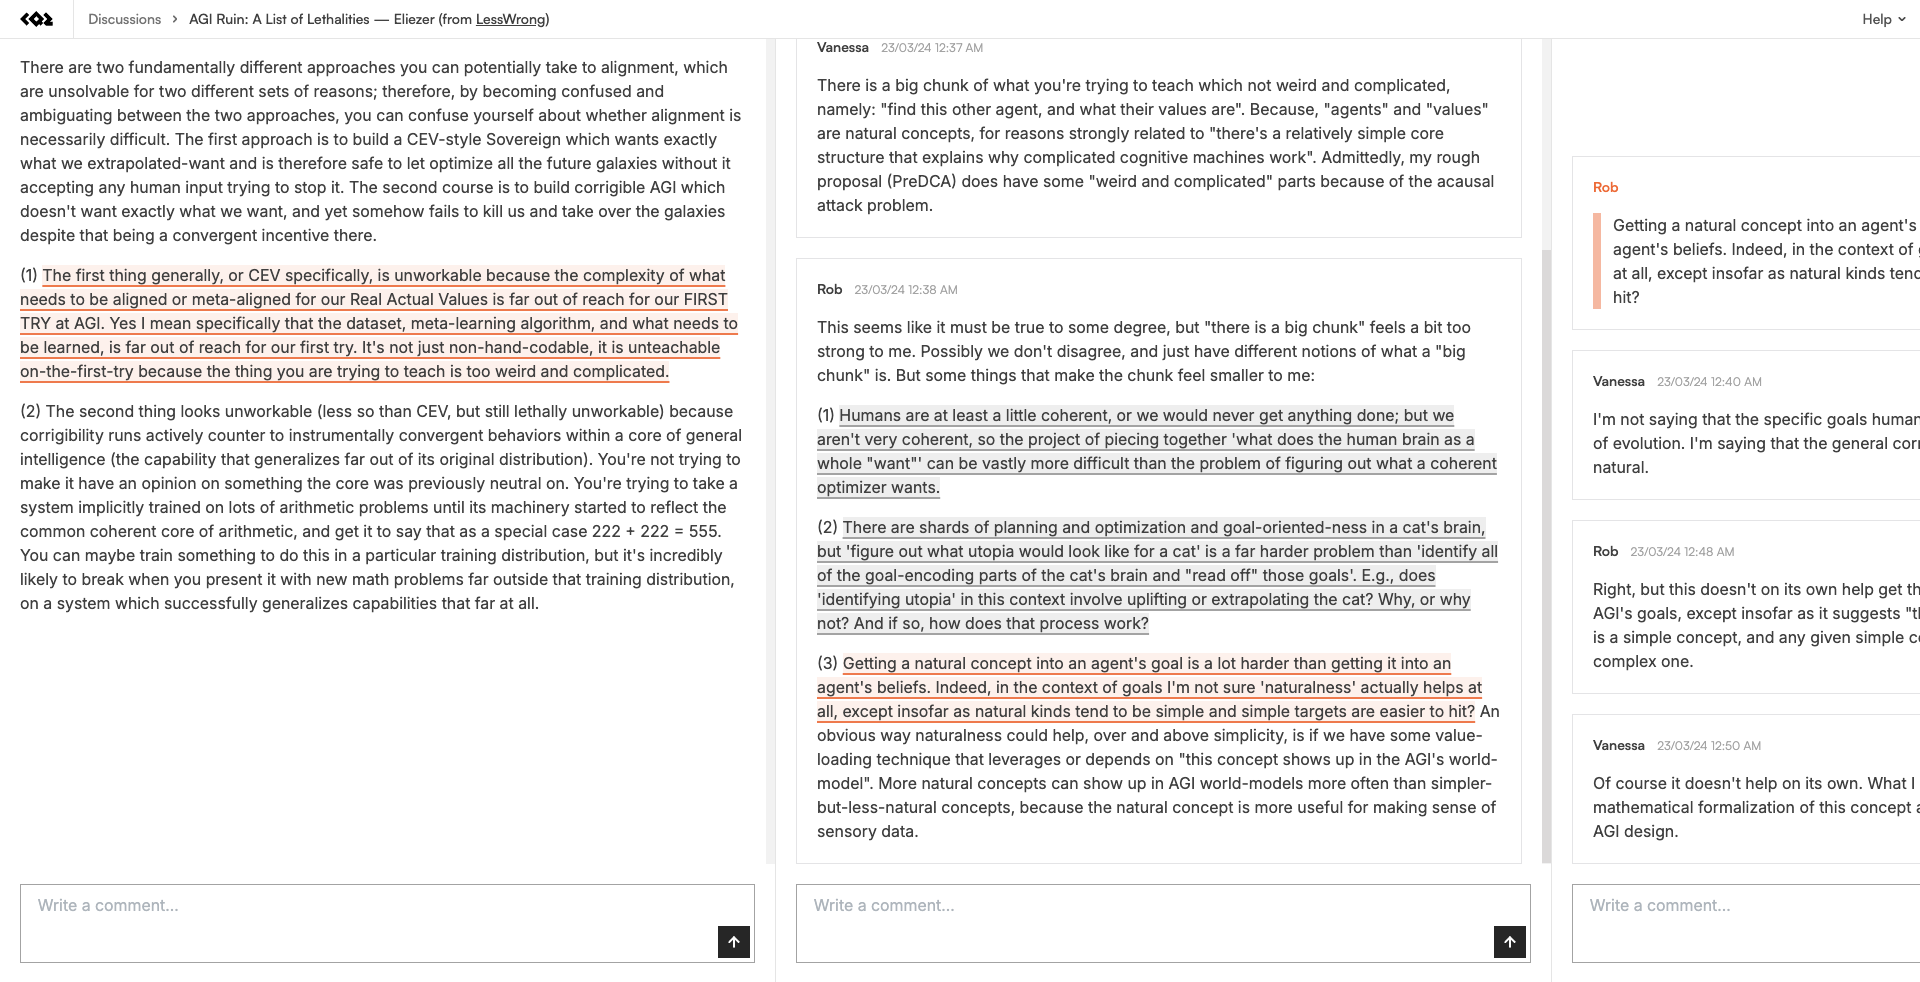
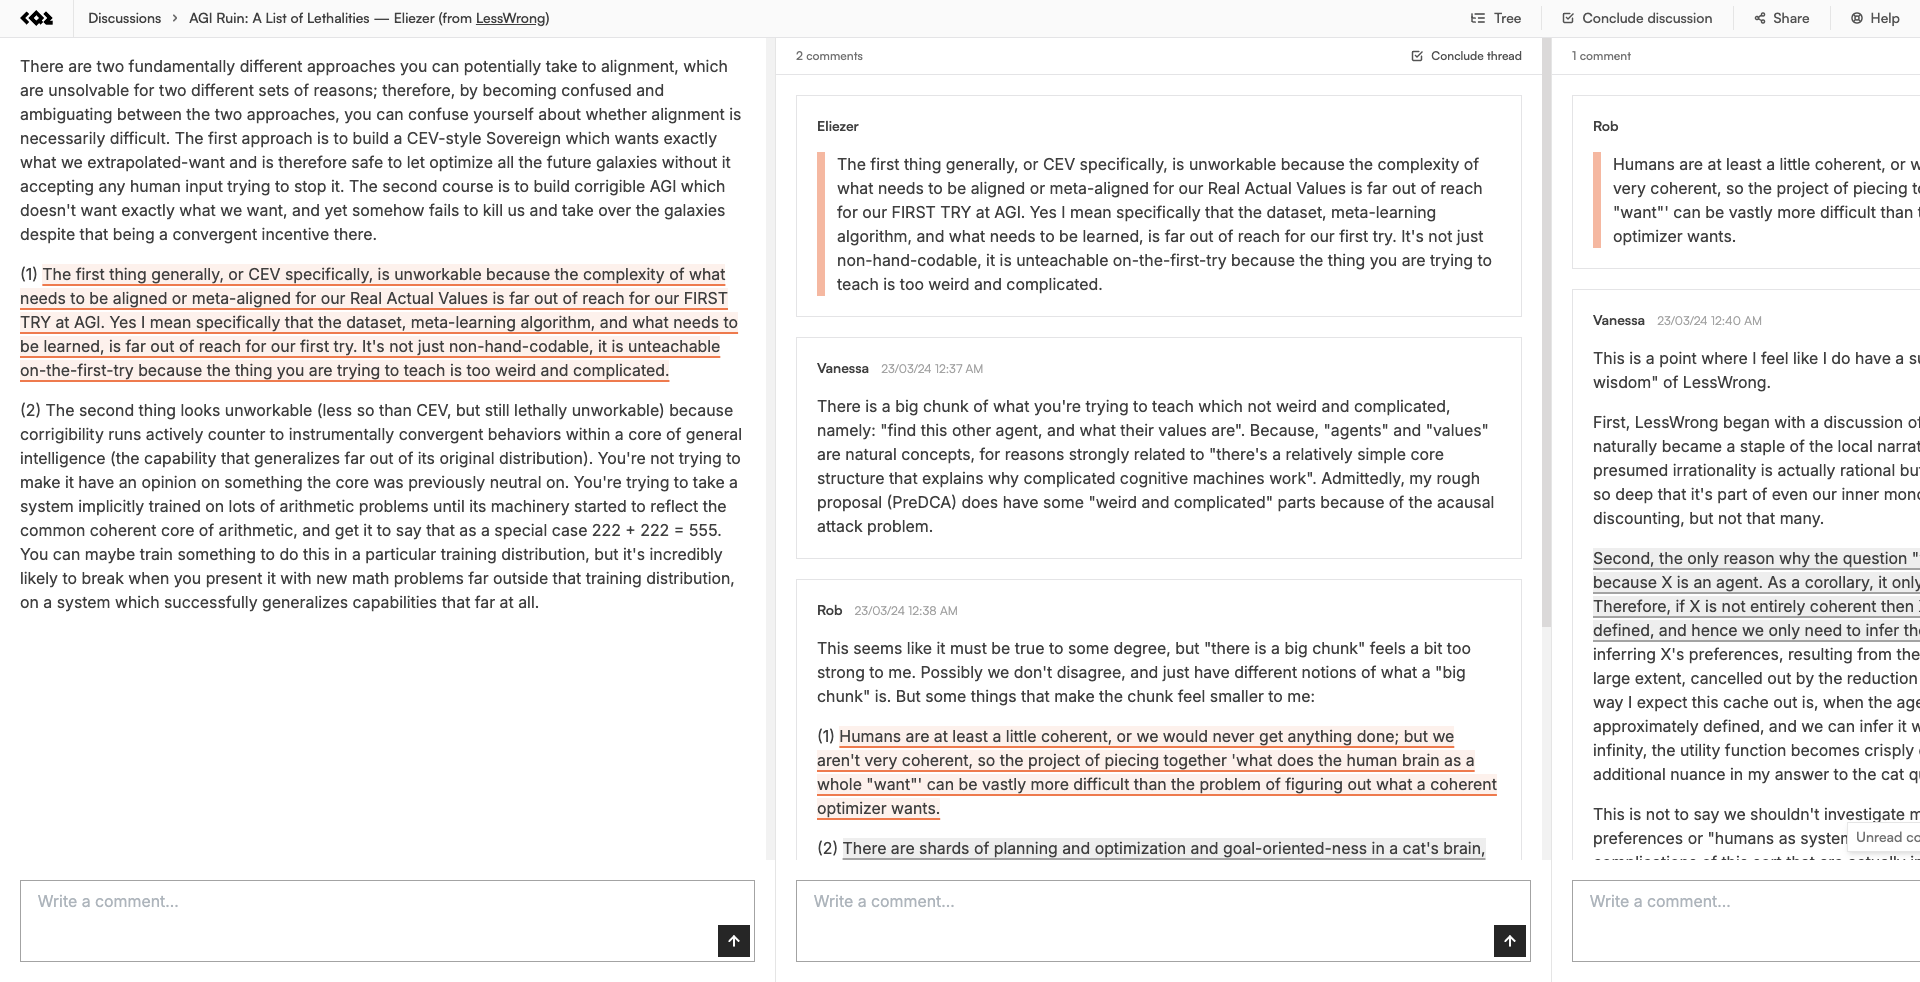
chore: rate limit and minor changes

diff --git a/src/components/top-nav.tsx b/src/components/top-nav.tsx
@@ -124,7 +124,7 @@ const TopNav = () => {
                       sideOffset={16}
                       onInteractOutside={() => setShowTreePopover(false)}
                     >
-                      <div className="rounded-none bg-neutral-50 p-4">
+                      <div className="max-h-[36rem] overflow-y-auto rounded-none bg-neutral-50 p-4">
                         <CQ2Tree
                           discussion={discussion}
                           setShowTreePopover={setShowTreePopover}
@@ -232,19 +232,22 @@ const TopNav = () => {
                   sideOffset={16}
                 >
                   <div
-                    className={`${satoshi.className} flex w-auto flex-col text-base text-neutral-700`}
+                    className={`flex max-h-[36rem] w-auto flex-col overflow-y-auto text-sm text-neutral-500`}
                   >
                     {pathname === "/app/new" && (
                       <div className="rounded-none bg-neutral-50 p-4">
                         To create a new discussion in CQ2, provide a title and
-                        the description. No login required. Share the link with
-                        the participants to invite them.
+                        the description. No login required, just your name.
+                        Share the link with the participants to invite them.
                       </div>
                     )}
                     {(pathname === "/app/demo" ||
                       pathname.includes("/app/discussions/")) && (
                       <>
                         <div className="rounded-none bg-neutral-50 p-4">
+                          <span className="mb-2 block font-medium text-neutral-700">
+                            Commenting and creating threads
+                          </span>
                           General comments about the discussion go in the main
                           (first and leftmost) thread. To reply to a particular
                           text from the main description or from any comment,
@@ -256,6 +259,9 @@ const TopNav = () => {
                           of the comment.
                         </div>
                         <div className="mt-3 rounded-none bg-neutral-50 p-4">
+                          <span className="mb-2 block font-medium text-neutral-700">
+                            Opening threads
+                          </span>
                           If someone has already created a thread for a
                           particular quote, the quote would appear highlighted.
                           You can click on it to open its corresponding thread
@@ -264,6 +270,25 @@ const TopNav = () => {
                           would be a highlighted comments button on the
                           top-right of the comment which you can click on to
                           open the corresponding thread.
+                        </div>
+                        <div className="mt-3 rounded-none bg-neutral-50 p-4">
+                          <span className="mb-2 block font-medium text-neutral-700">
+                            Tree
+                          </span>
+                          You can use the tree from the navigation bar to
+                          quickly go to a particular thread. The tree also shows
+                          the number of comments in a thread, the number of
+                          unread comments and whether the thread has been
+                          concluded.
+                        </div>
+                        <div className="mt-3 rounded-none bg-neutral-50 p-4">
+                          <span className="mb-2 block font-medium text-neutral-700">
+                            Conclusion
+                          </span>
+                          You can conclude a thread by using the “Conclude
+                          thread” button on top of the thread. To conclude the
+                          whole discussion, use the “Conclude discussion” button
+                          in the navigation bar.
                         </div>
                       </>
                     )}

diff --git a/src/app/page.tsx b/src/app/page.tsx
@@ -107,17 +107,18 @@ export default function Home() {
             </p>
             <p className="mt-6 md:mt-12">
               Discussions using existing platforms turn into a mess of
-              unorganised comments. People talk over one another and topics get
-              mixed up. Replies to a particular topic are spread across
-              different comments and you’re forced to mentally manage all the
-              quotes and their replies.
+              unorganised comments. There's a lack of structure. People talk
+              over one another and topics get mixed up. Replies to a particular
+              topic are spread across different comments and you're forced to
+              mentally manage all the quotes and their replies.
             </p>
             <p className="mt-6 md:mt-12">
-              In-person discussions are hit-or-miss, and most often go nowhere.
-              They favour speaking ability. Instead of well-formed thoughts, you
-              often get impulsive responses and hot takes. Many discussions
-              benefit from taking a break to gather evidence or think more but
-              there’s never enough time.
+              In-person discussions are hit-or-miss and most often go nowhere.
+              They make it extremely hard to have a good structure. Instead of
+              well-formed thoughts, you often get impulsive responses and hot
+              takes. They favour speaking ability. Many discussions benefit from
+              taking a break to gather evidence or think more but there's never
+              enough time.
             </p>
           </div>
         </div>
@@ -130,11 +131,11 @@ export default function Home() {
           <p
             className={`${satoshi.className} mt-8 w-full text-center text-xl font-medium text-neutral-500 md:w-[64rem] md:text-3xl md:leading-[2.8rem]`}
           >
-            With CQ2, forget quote hell — create threads around specific quotes
-            and find all replies related to a topic at one place. No more mess
-            of unorganised comments — create threads inside threads so that each
-            thread stays on topic and organised. Never lose context of where you
-            are — see all parent threads of the current thread in the same view.
+            No more mess of unorganised comments — create threads inside threads
+            so that each thread stays on topic and organised. Forget quote hell
+            — create threads around specific quotes and find all replies related
+            to a topic at one place. Never lose context of where you are — see
+            all parent threads of the current thread in the same view.
           </p>
           <div className="mt-12 flex flex-row">
             <div className="mr-2">

diff --git a/src/app/api/discussions/route.tsx b/src/app/api/discussions/route.tsx
@@ -1,7 +1,37 @@
 import dbConnect from "@/lib/db-connect";
 import Discussion from "@/models/discussion";
+import { kv } from "@vercel/kv";
+import { Ratelimit } from "@upstash/ratelimit";
 
 export async function POST(req: Request) {
+  if (process.env.KV_REST_API_URL && process.env.KV_REST_API_TOKEN) {
+    const ip = req.headers.get("x-forwarded-for");
+    const ratelimit = new Ratelimit({
+      redis: kv,
+      // rate limit to 5 requests per 10 seconds
+      limiter: Ratelimit.slidingWindow(5, "10s"),
+    });
+
+    const { success, limit, reset, remaining } = await ratelimit.limit(
+      `ratelimit_${ip}`,
+    );
+
+    if (!success) {
+      return new Response("You have reached your request limit for the day.", {
+        status: 429,
+        headers: {
+          "X-RateLimit-Limit": limit.toString(),
+          "X-RateLimit-Remaining": remaining.toString(),
+          "X-RateLimit-Reset": reset.toString(),
+        },
+      });
+    }
+  } else {
+    console.log(
+      "KV_REST_API_URL and KV_REST_API_TOKEN env vars not found, not rate limiting...",
+    );
+  }
+
   await dbConnect();
 
   const reqData = await req.json();
@@ -11,6 +41,34 @@ export async function POST(req: Request) {
 }
 
 export async function PUT(req: Request) {
+  if (process.env.KV_REST_API_URL && process.env.KV_REST_API_TOKEN) {
+    const ip = req.headers.get("x-forwarded-for");
+    const ratelimit = new Ratelimit({
+      redis: kv,
+      // rate limit to 5 requests per 10 seconds
+      limiter: Ratelimit.slidingWindow(5, "10s"),
+    });
+
+    const { success, limit, reset, remaining } = await ratelimit.limit(
+      `ratelimit_${ip}`,
+    );
+
+    if (!success) {
+      return new Response("You have reached your request limit for the day.", {
+        status: 429,
+        headers: {
+          "X-RateLimit-Limit": limit.toString(),
+          "X-RateLimit-Remaining": remaining.toString(),
+          "X-RateLimit-Reset": reset.toString(),
+        },
+      });
+    }
+  } else {
+    console.log(
+      "KV_REST_API_URL and KV_REST_API_TOKEN env vars not found, not rate limiting...",
+    );
+  }
+
   await dbConnect();
 
   const reqData = await req.json();

diff --git a/src/app/api/discussions/[id]/route.tsx b/src/app/api/discussions/[id]/route.tsx
@@ -1,10 +1,40 @@
 import dbConnect from "@/lib/db-connect";
 import Discussion from "@/models/discussion";
+import { kv } from "@vercel/kv";
+import { Ratelimit } from "@upstash/ratelimit";
 
 export async function GET(
   req: Request,
   { params }: { params: { id: string } },
 ) {
+  if (process.env.KV_REST_API_URL && process.env.KV_REST_API_TOKEN) {
+    const ip = req.headers.get("x-forwarded-for");
+    const ratelimit = new Ratelimit({
+      redis: kv,
+      // rate limit to 5 requests per 10 seconds
+      limiter: Ratelimit.slidingWindow(5, "10s"),
+    });
+
+    const { success, limit, reset, remaining } = await ratelimit.limit(
+      `ratelimit_${ip}`,
+    );
+
+    if (!success) {
+      return new Response("You have reached your request limit for the day.", {
+        status: 429,
+        headers: {
+          "X-RateLimit-Limit": limit.toString(),
+          "X-RateLimit-Remaining": remaining.toString(),
+          "X-RateLimit-Reset": reset.toString(),
+        },
+      });
+    }
+  } else {
+    console.log(
+      "KV_REST_API_URL and KV_REST_API_TOKEN env vars not found, not rate limiting...",
+    );
+  }
+
   await dbConnect();
 
   const res = await Discussion.findById(params.id).lean();

diff --git a/src/lib/utils.tsx b/src/lib/utils.tsx
@@ -216,11 +216,10 @@ export const CQ2Tree = ({ discussion, setShowTreePopover }) => {
             setShowTreePopover(false);
           }}
         >
-          <span className="text-neutral-600 transition duration-200 group-hover:text-neutral-700">
+          <span className="mr-1 text-neutral-600 transition duration-200 group-hover:text-neutral-700">
             {thread.quote_by}
           </span>
           <span className="text-neutral-500 transition duration-200 group-hover:text-neutral-600">
-            {" "}
             - {getTruncatedText(thread.quote)}
           </span>
 

diff --git a/src/app/globals.css b/src/app/globals.css
@@ -72,7 +72,7 @@
   padding-left: 0.8rem;
   padding-right: 0.8rem;
   min-height: 5rem;
-  max-height: 8rem;
+  max-height: 12rem;
   overflow-y: auto;
 }
 
